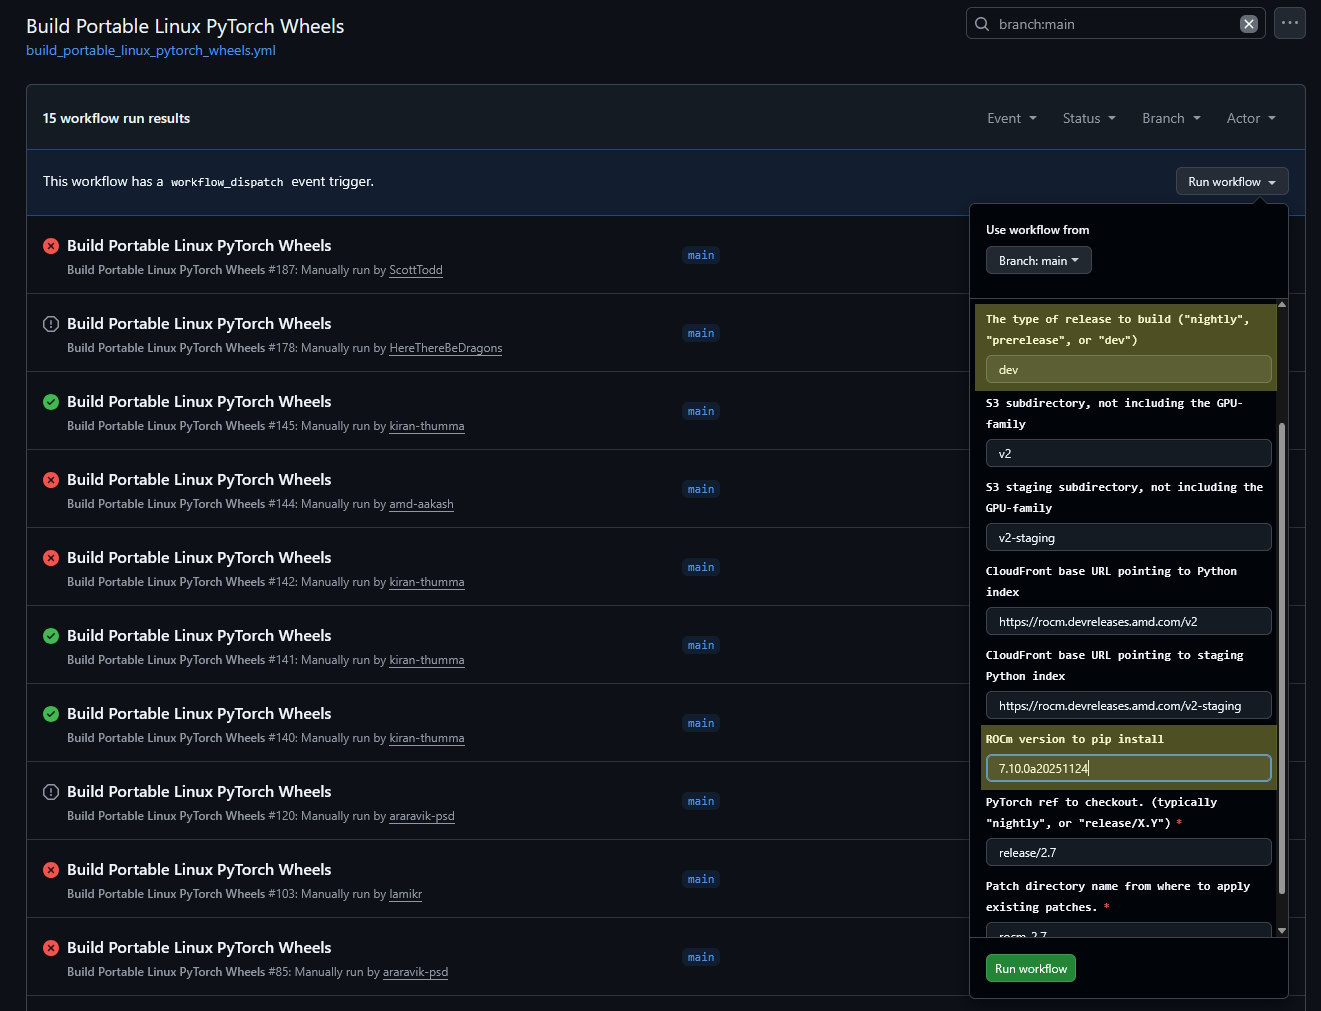
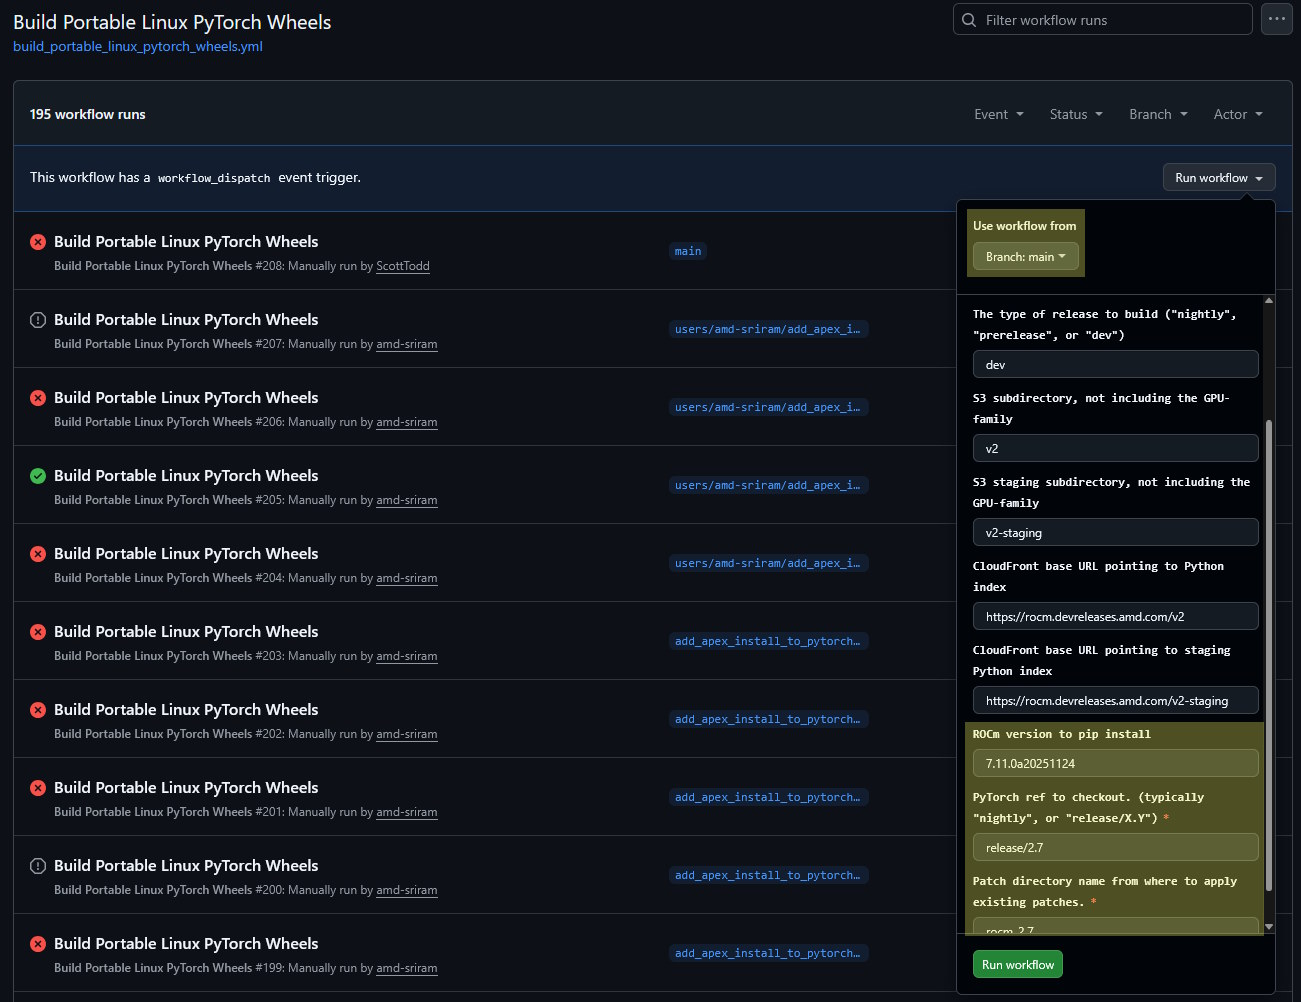
Fix example version and tweak steps/screenshots

diff --git a/docs/development/github_actions_debugging.md b/docs/development/github_actions_debugging.md
@@ -33,7 +33,7 @@ bucket and the package index https://rocm.devreleases.amd.com/
 Follow these steps:
 
 1. Identify the ROCm package version that you want to build against, like
-   `7.10.0a20251124`. You can find recent versions in a nightly release index
+   `7.11.0a20251124`. You can find recent versions in a nightly release index
    like at https://rocm.nightlies.amd.com/v2/gfx94X-dcgpu/rocm/.
 
 1. Copy that version from the "nightly" release bucket to the "dev" release
@@ -44,7 +44,8 @@ Follow these steps:
 
 1. Trigger
    https://github.com/ROCm/TheRock/actions/workflows/build_portable_linux_pytorch_wheels.yml
-   using a "dev" release and the selected version:
+   from the branch you want. Keep the default of "dev" release type, enter the
+   selected rocm version, and choose a PyTorch ref as needed:
 
    ![build_portable_linux_pytorch_wheels_workflow_dispatch](assets/build_portable_linux_pytorch_wheels_workflow_dispatch.jpg)
 
